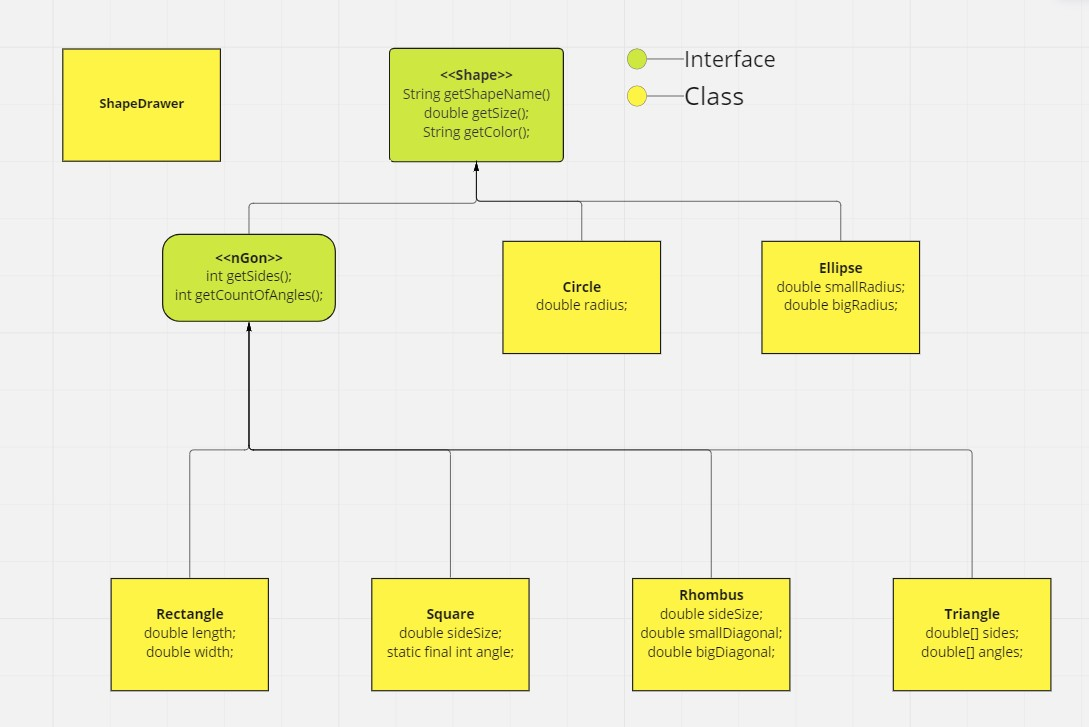
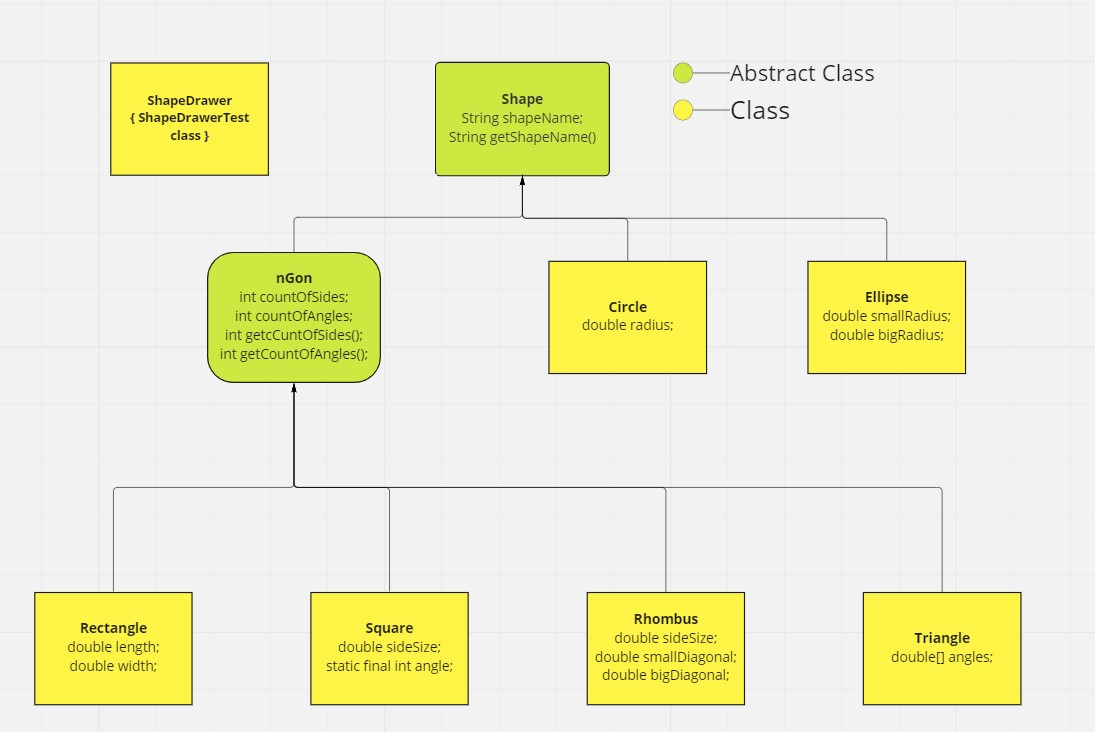
Changed of class hierarchy. Converted Interfaces Shape and nGon to Abstract classes

diff --git a/src/graphicRedactor/Rectangle.java b/src/graphicRedactor/Rectangle.java
@@ -1,6 +1,6 @@
 package graphicRedactor;
 
-public class Rectangle implements nGon {
+public class Rectangle extends nGon {
 
     private double length;
     private double width;
@@ -22,22 +22,12 @@ public class Rectangle implements nGon {
     }
 
     @Override
-    public double getSize() {
-        return 28.0d;
-    }
-
-    @Override
-    public String getColor() {
-        return "Green";
-    }
-
-    @Override
     public String getShapeName() {
-        return "Rectangle";
+        return "Shape name is Rectangle";
     }
 
     @Override
-    public int getSides() {
+    public int getCountOfSides() {
         return 4;
     }
 
@@ -46,10 +36,4 @@ public class Rectangle implements nGon {
         return 4;
     }
 
-    @Override
-    public String toString() {
-        return "Shape name - " + getShapeName()
-                + ", color - " + getColor()
-                + ", size - " + getSize();
-    }
 }

diff --git a/src/graphicRedactor/Rhombus.java b/src/graphicRedactor/Rhombus.java
@@ -1,6 +1,6 @@
 package graphicRedactor;
 
-public class Rhombus implements nGon {
+public class Rhombus extends nGon {
 
     private double sideSize;
     private double smallDiagonal;
@@ -31,22 +31,12 @@ public class Rhombus implements nGon {
     }
 
     @Override
-    public double getSize() {
-        return 36.5d;
-    }
-
-    @Override
-    public String getColor() {
-        return "Yellow";
-    }
-
-    @Override
     public String getShapeName() {
-        return "Rhombus";
+        return "Shape name is Rhombus";
     }
 
     @Override
-    public int getSides() {
+    public int getCountOfSides() {
         return 4;
     }
 
@@ -55,10 +45,4 @@ public class Rhombus implements nGon {
         return 4;
     }
 
-    @Override
-    public String toString() {
-        return "Shape name - " + getShapeName()
-                + ", color - " + getColor()
-                + ", size - " + getSize();
-    }
 }

diff --git a/src/graphicRedactor/Square.java b/src/graphicRedactor/Square.java
@@ -1,6 +1,6 @@
 package graphicRedactor;
 
-public class Square implements nGon {
+public class Square extends nGon {
 
     private static final int angle = 45;
     private double sideSize;
@@ -19,33 +19,16 @@ public class Square implements nGon {
 
     @Override
     public String getShapeName() {
-        return "Square";
+        return "Shape name is Square";
     }
 
     @Override
-    public double getSize() {
-        return 112.34d;
-    }
-
-    @Override
-    public String getColor() {
-        return "Blue";
-    }
-
-    @Override
-    public int getSides() {
+    public int getCountOfSides() {
         return 4;
     }
 
     @Override
     public int getCountOfAngles() {
         return 4;
-    }
-
-    @Override
-    public String toString() {
-        return "Shape name - " + getShapeName()
-                + ", color - " + getColor()
-                + ", size - " + getSize();
     }
 }

diff --git a/src/graphicRedactor/Triangle.java b/src/graphicRedactor/Triangle.java
@@ -1,6 +1,6 @@
 package graphicRedactor;
 
-public class Triangle implements nGon {
+public class Triangle extends nGon {
 
     private double[] angles;
 
@@ -16,22 +16,12 @@ public class Triangle implements nGon {
     }
 
     @Override
-    public double getSize() {
-        return 13;
-    }
-
-    @Override
-    public String getColor() {
-        return "Black";
-    }
-
-    @Override
     public String getShapeName() {
-        return "Triangle";
+        return "Shape name is Triangle";
     }
 
     @Override
-    public int getSides() {
+    public int getCountOfSides() {
         return 3;
     }
 
@@ -40,10 +30,4 @@ public class Triangle implements nGon {
         return 3;
     }
 
-    @Override
-    public String toString() {
-        return "Shape name - " + getShapeName()
-                + ", color - " + getColor()
-                + ", size - " + getSize();
-    }
 }

diff --git a/src/graphicRedactor/ShapeDrawer.java b/src/graphicRedactor/ShapeDrawer.java
@@ -1,19 +1,17 @@
 package graphicRedactor;
 
 public class ShapeDrawer {
+    public void shapeDrawer(Shape shape) {
+        System.out.println(shape.getShapeName());
+    }
+}
 
+
+class ShapeDrawerTest {
     public static void main(String[] args) {
-        Shape square = new Square();
-        Shape circle = new Circle();
-        Shape rhombus = new Rhombus();
-
-        System.out.println(square.getShapeName());
-        System.out.println(square.toString());
-
-        System.out.println(circle.getShapeName());
-        System.out.println(circle.toString());
-
-        System.out.println(rhombus.getShapeName());
-        System.out.println(rhombus.toString());
+        ShapeDrawer shape = new ShapeDrawer();
+        shape.shapeDrawer(new Square());
+        shape.shapeDrawer(new Triangle());
+        shape.shapeDrawer(new Circle());
     }
 }

diff --git a/src/graphicRedactor/Ellipse.java b/src/graphicRedactor/Ellipse.java
@@ -1,6 +1,6 @@
 package graphicRedactor;
 
-public class Ellipse implements Shape {
+public class Ellipse extends Shape {
 
     private double smallRadius;
     private double bigRadius;
@@ -22,25 +22,8 @@ public class Ellipse implements Shape {
     }
 
     @Override
-    public double getSize() {
-        return Shape.super.getSize();
-    }
-
-    @Override
-    public String getColor() {
-        return "Green";
-    }
-
-    @Override
     public String getShapeName() {
-        return "Ellipse";
-    }
-
-    @Override
-    public String toString() {
-        return "Shape name - " + getShapeName()
-                + ", color - " + getColor()
-                + ", size - " + getSize();
+        return "Shape name is Ellipse";
     }
 
 }

diff --git a/src/graphicRedactor/Circle.java b/src/graphicRedactor/Circle.java
@@ -1,6 +1,6 @@
 package graphicRedactor;
 
-public class Circle implements Shape {
+public class Circle extends Shape {
 
     private double radius;
 
@@ -13,24 +13,7 @@ public class Circle implements Shape {
     }
 
     @Override
-    public String getShapeName() {
-        return "Circle";
-    }
-
-    @Override
-    public double getSize() {
-        return 7.775d;
-    }
-
-    @Override
-    public String getColor() {
-        return Shape.super.getColor();
-    }
-
-    @Override
-    public String toString() {
-        return "Shape name - " + getShapeName()
-                + ", color - " + getColor()
-                + ", size - " + getSize();
+    String getShapeName() {
+        return "Shape name is Circle";
     }
 }

diff --git a/src/graphicRedactor/Shape.java b/src/graphicRedactor/Shape.java
@@ -1,14 +1,8 @@
 package graphicRedactor;
 
-public interface Shape {
+public abstract class Shape {
 
-    default double getSize() {
-        return 12.34d;
-    }
+    protected String shapeName;
 
-    default String getColor() {
-        return "White";
-    }
-
-    String getShapeName();
+    abstract String getShapeName();
 }

diff --git a/src/graphicRedactor/nGon.java b/src/graphicRedactor/nGon.java
@@ -1,8 +1,11 @@
 package graphicRedactor;
 
-public interface nGon extends Shape {
+public abstract class nGon extends Shape {
 
-    int getSides();
+    protected int countOfSides;
+    protected int countOfAngles;
 
-    int getCountOfAngles();
+    abstract int getCountOfSides();
+
+    abstract int getCountOfAngles();
 }
